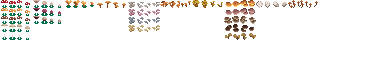
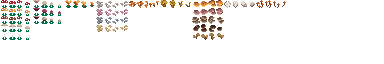
Added mushrooms on trees

Changed region(s): [[0.25, 0.0, 0.8438, 0.625]]

diff --git a/projects/project2/final/js/script.js b/projects/project2/final/js/script.js
@@ -151,7 +151,7 @@ function setup() {
           // Spawns mushrooms in groups
           for (var yy = y; yy < min(y + 3, grid.length); yy++) {
             for (var xx = x; xx < min(x + 3, grid[y].length); xx++) {
-              if (floor(random(3)) == 0) {
+              if (floor(random(4)) == 0) {
 
                 // Adds the mushroom and gives it a classification
                 objects[yy][xx] = new Mushroom((xx - (mapSize/2) + floor(width / tileFinalSize) / 2) * tileFinalSize ,
@@ -205,7 +205,7 @@ function keyPressed() {
         book.open = false;
       }
    }
-   
+
    // Closes the book
    else if (keyCode === 27) {
      book.open = false;
@@ -239,6 +239,13 @@ function simulation() {
           if (objects[y][x] != null) {
             objects[y][x].x -= player.xVelocity;
             objects[y][x].bboxX -= player.xVelocity;
+
+            // Moves mushrooms growing from trees
+            if (objects[y][x].canSpawnMushrooms == true) {
+              for (var i = 0; i < objects[y][x].mushrooms.length; i++){
+                objects[y][x].mushrooms[i].x -= player.xVelocity;
+              }
+            }
           }
           tiles[y][x].x -= player.xVelocity;
         }
@@ -248,6 +255,13 @@ function simulation() {
           if (objects[y][x] != null) {
             objects[y][x].y -= player.yVelocity;
             objects[y][x].bboxY -= player.yVelocity;
+
+            // Moves mushrooms growing from trees
+            if (objects[y][x].canSpawnMushrooms == true) {
+              for (var i = 0; i < objects[y][x].mushrooms.length; i++){
+                objects[y][x].mushrooms[i].y -= player.yVelocity;
+              }
+            }
           }
           tiles[y][x].y -= player.yVelocity;
         }
@@ -276,7 +290,7 @@ function simulation() {
       if (objects[y][x] != null
         && objects[y][x].x + objects[y][x].sprite.width * tileScale > 0 && objects[y][x].x < width
         && objects[y][x].y + objects[y][x].sprite.height * tileScale > 0 && objects[y][x].y < height) {
-        if (objects[y][x].objectType === 'object' &&
+        if ((objects[y][x].objectType === 'object' || objects[y][x].objectType === 'tree') &&
           player.y + player.size / 2 <= objects[y][x].bboxY + objects[y][x].bboxHeight &&
           player.y + player.size / 2 >= objects[y][x].y &&
           player.x + player.size / 2 >= objects[y][x].x &&

diff --git a/projects/project2/final/js/mushroom.js b/projects/project2/final/js/mushroom.js
@@ -1,22 +1,9 @@
 
-// let mushroomFamilies = {
-//   pleurotaceae: 0,
-//   amanita: 1,
-//   agaricus: 2,
-//   cantharellus: 3,
-//   fomitopsidaceae: 4,
-//   hericiaceae: 5,
-//   polyporaceae: 6,
-//   physalacriaceae: 7,
-//   marasmiaceae: 8,
-//   meripilaceae: 9,
-// };
 
 
 let mushroomSpecies = [["Amanita", ["Muscaria", "Fly Agaric"], ["Guessowii", "Yellow Fly Agaric"], ["Pantherina", "Panther Cap"], ["Phalloides", "Death Cap"], ["Virosa", "Destroying Angel"]],
                       ["Agaricus", ["Bisporus", "Button Mushroom"], ["Arvensis", "Horse Mushroom"], ["Campestris", "Field Mushroom"]],
                       ["Cantharellus", ["Cibarius", "Golden Chantrelle"]],
-                      ["Hygrophoropsidaceae", ["Hygrophoropsis Aurantiaca", "False Chantrelle"]],
                       ["Pleurotus", ["Ostreatus", "Pearl Oyster"], ["Djamor", "Pink Oyster"], ["Columbinus", "Blue Oyster"], ["Citrinopileatus", "Golden Oyster"]],
                       ["Marasmiaceae", ["Omphalotus Olearius", "Jack-O-Lantern"]],
                       ["Physalacriaceae", ["Armillaria", "Honey Fungus"]],
@@ -32,8 +19,8 @@ class Mushroom extends Objects {
     super(x, y, genus);
 
     // Adds a random offset to the mushrooms
-    this.x = x + random(-16, 16);
-    this.y = y + random(-16, 16);
+    this.x = x + floor(random(-8, 8));
+    this.y = y + floor(random(-8, 8));
 
     // Stores the species name
     this.genus = genus;
@@ -46,7 +33,7 @@ class Mushroom extends Objects {
     this.spriteSize = 8 * tileScale;
     this.objectType = 'mushroom';
 
-    // Stories species name
+    // Stores species names
     this.genusName = mushroomSpecies[this.genus][0];
     this.speciesName = mushroomSpecies[this.genus][this.species][0];
     this.commonName = mushroomSpecies[this.genus][this.species][1];

diff --git a/projects/project2/final/js/object.js b/projects/project2/final/js/object.js
@@ -10,6 +10,7 @@ class Objects {
     this.bboxY = this.y + tileSize * 2;
     this.tileIndex = type;
     this.objectType = 'object';
+    this.canSpawnMushrooms = false;
   }
 
   // Draws the tile
@@ -28,11 +29,35 @@ class Tree extends Objects {
      this.bboxHeight = tileFinalSize / 3;
      this.bboxX = this.x + tileSize * tileScale * 1.3;
      this.bboxY = this.y + tileSize * tileScale * 3.25;
-   }
+     this.mushrooms = [];
+     this.canSpawnMushrooms = true;
+
+     // Creates mushrooms on the tree
+     //if (floor(random(0)) == 0) {
+       var mushroomAmount = floor(random(1,5));
+
+       var tempGenus = floor(random(3, 9));
+
+       var tempSpecies = floor(random(mushroomSpecies[tempGenus].length));
+       for (var i = 0; i < mushroomAmount; i++) {
+         // Adds the mushroom and gives it a classification
+         this.mushrooms.push(new Mushroom(this.bboxX,
+           this.bboxY + i * 8 * random([-1,1]), tempGenus, tempSpecies));
+         }
+       //}
+     }
+
+  // move() {
+  //   this.mushrooms[i].x -= player.xVelocity;
+  //   this.mushrooms[i].y -= player.yVelocity;
+  // }
 
   display() {
     image(this.sprite, this.x, this.y, this.sprite.width * tileScale, this.sprite.height * tileScale);
+    for (var i = 0; i < this.mushrooms.length; i++) {
 
+      this.mushrooms[i].display();
+    }
   }
 }
 
